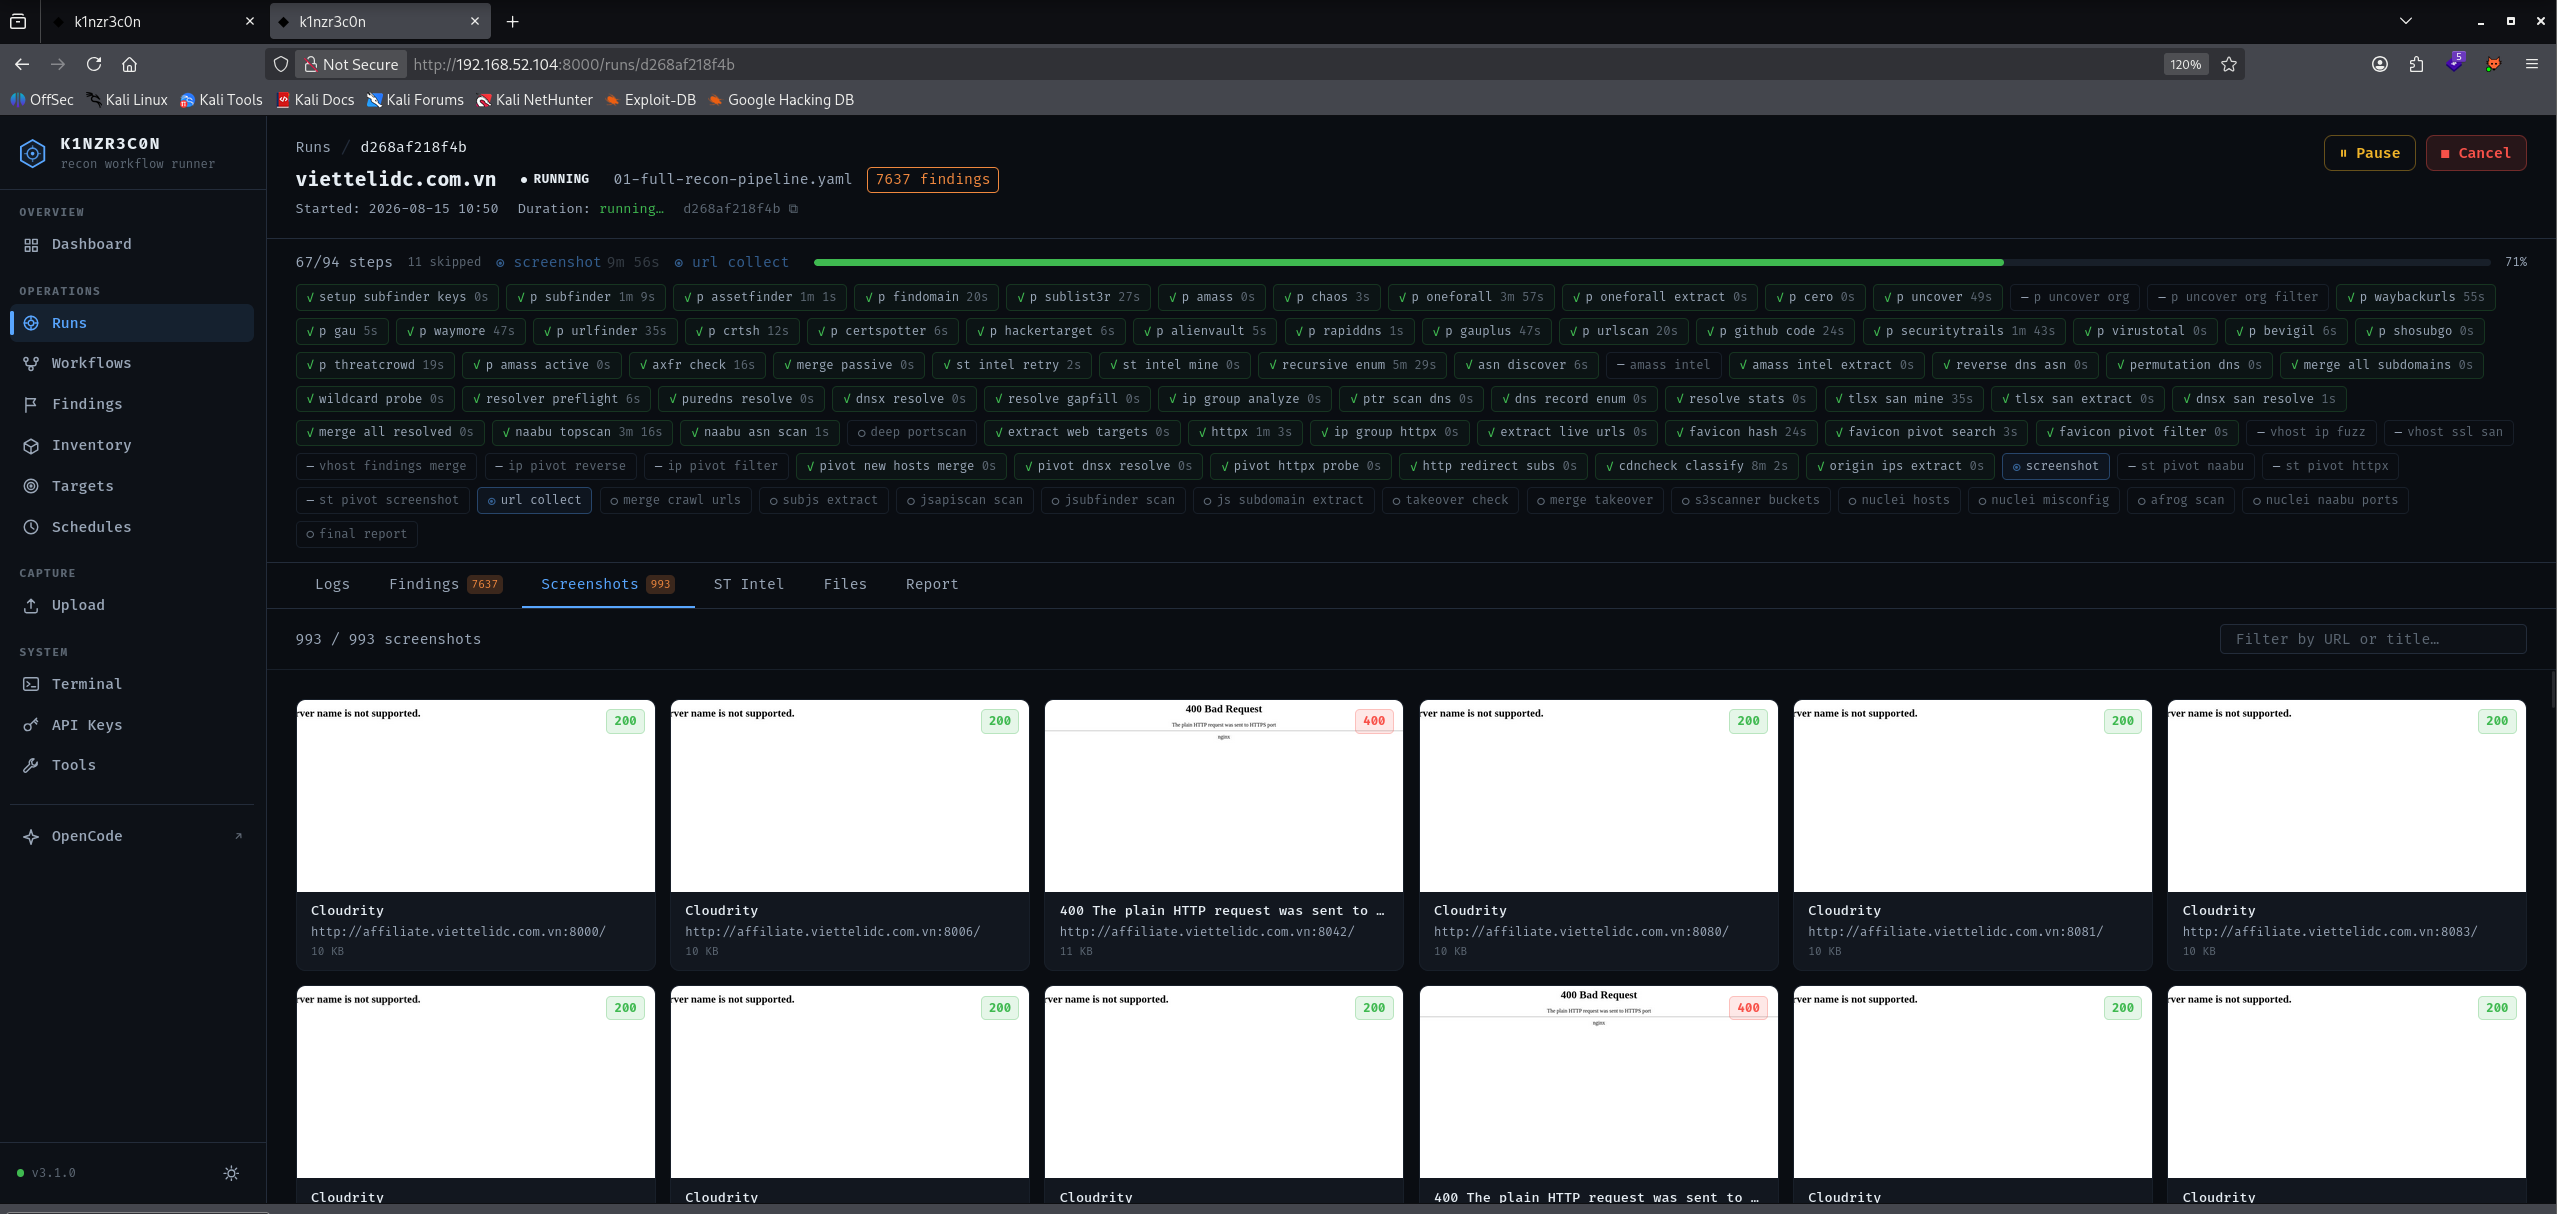
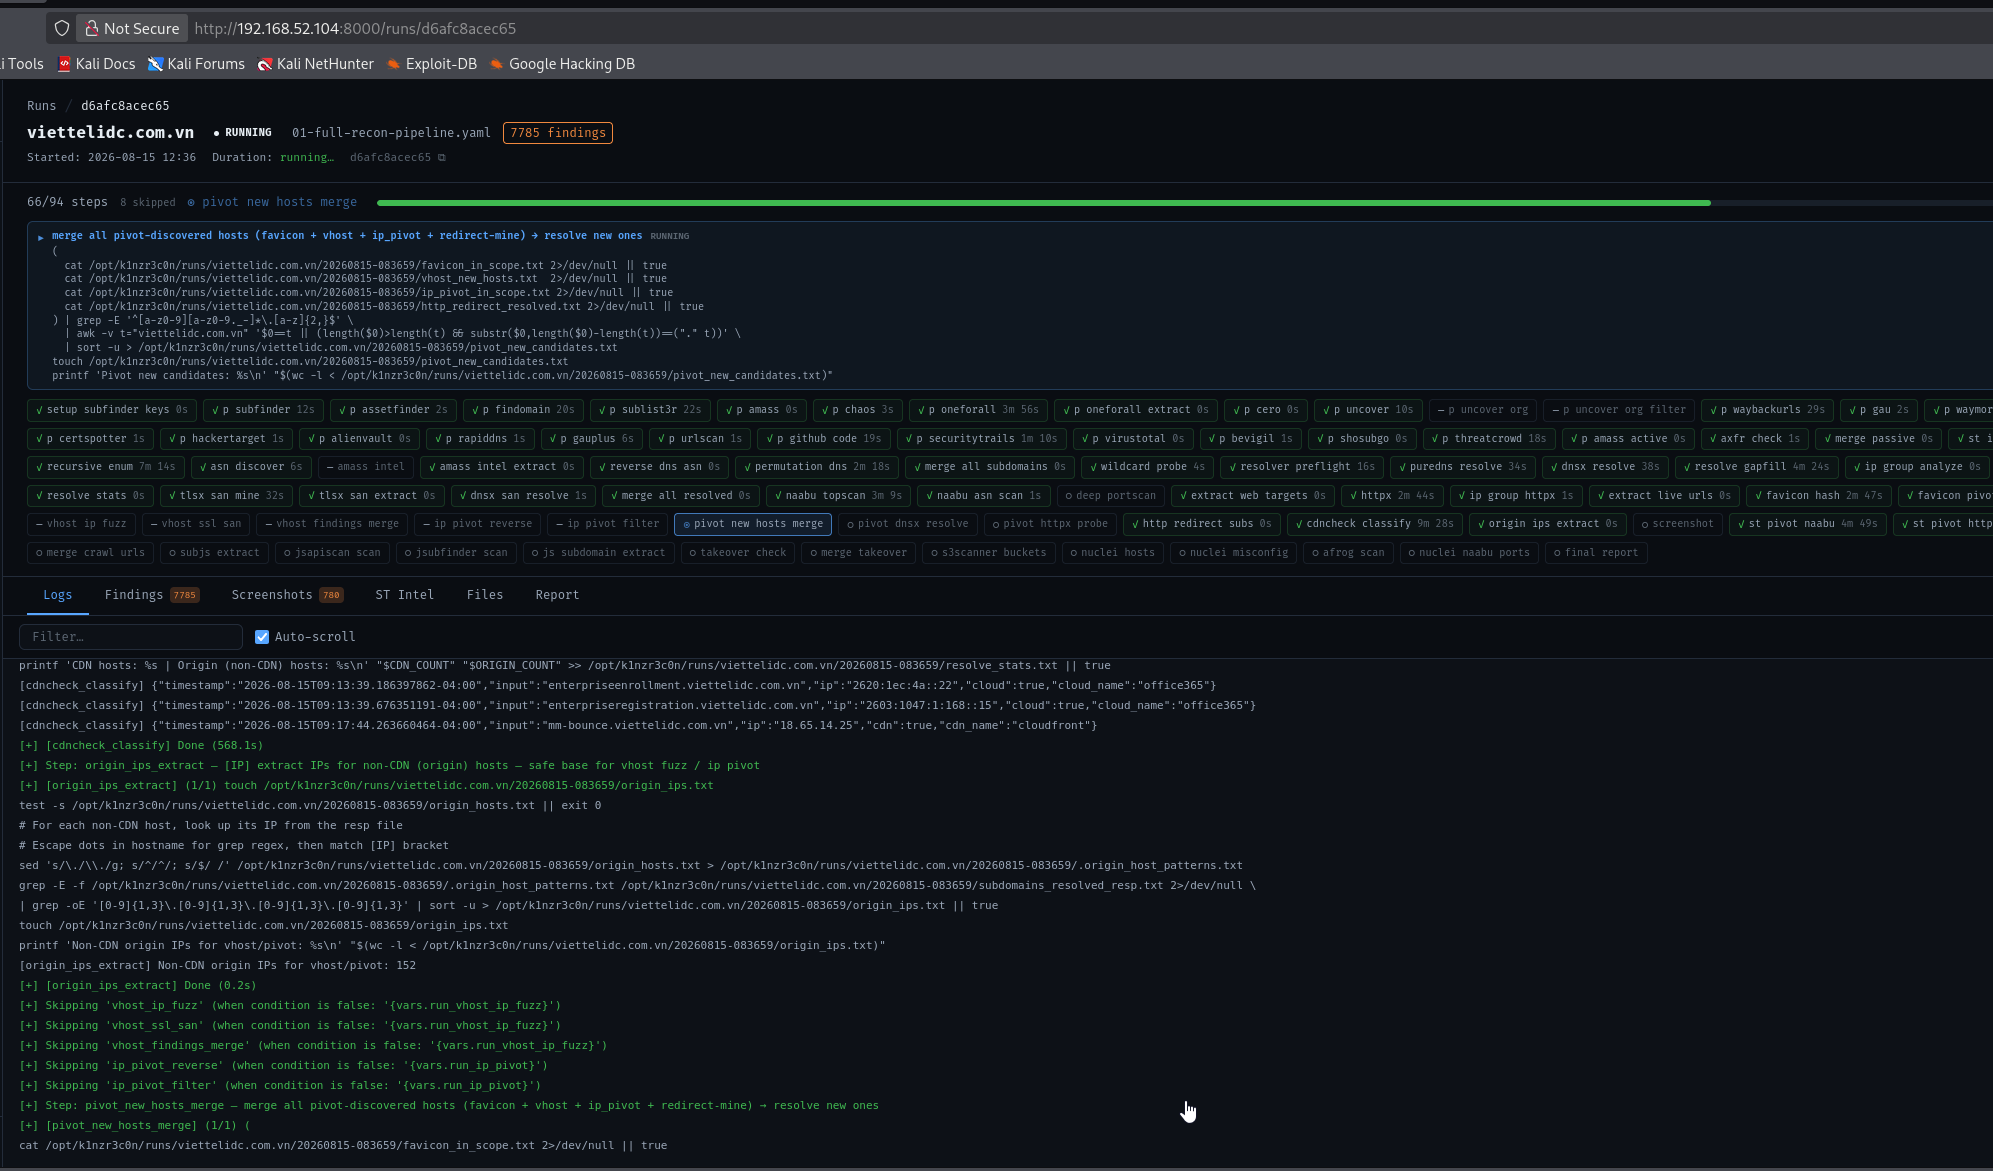
v1.4

diff --git a/scripts/securitytrails_fetch.py b/scripts/securitytrails_fetch.py
@@ -373,15 +373,27 @@ def _pivot_api_search(api_key: str, filters: dict) -> tuple[list[str] | None, bo
     Body is a FILTER OBJECT: {"filter": {"ns": "ns2.example.com"}} — not the
     DSL query string. Pagination via ?page=N; every page is fetched so deep
     results (e.g. scec.vn on page 30 of 53 for ns2) are never truncated.
+
+    BUGFIX 2026-08-15: the API returns records[].hostname (not "domain"/
+    "apex_domain") and meta.total_pages (not "pages") — the old field names
+    parsed 0 records per page, so every pivot silently fell back to the
+    ~500-row-capped viewdns source and deep domains were lost.
     Returns (domains_or_None_if_plan_lacks_it, got_200).
     """
     domains: list[str] = []
     page = 1
     got_200 = False
     while page <= 1000:   # guard only — loop ends on API's own end-of-data
-        status, data = _http_json(
-            "POST", f"/v1/domains/list?apikey={api_key}&page={page}", api_key,
-            payload={"filter": filters})
+        status, data = None, None
+        for attempt in range(3):   # per-page retry: NAT flaps mid-pagination
+            status, data = _http_json(
+                "POST", f"/v1/domains/list?apikey={api_key}&page={page}", api_key,
+                payload={"filter": filters})
+            if status == 200 and data is not None:
+                break
+            if status in (400, 401, 402, 403, 404):
+                break
+            time.sleep(5)
         if status in (402, 403):
             return (domains if domains else None), True   # plan limit
         if status != 200 or data is None:
@@ -389,12 +401,14 @@ def _pivot_api_search(api_key: str, filters: dict) -> tuple[list[str] | None, bo
         got_200 = True
         recs = []
         for r in data.get("records", []):
-            d = (r.get("domain") or r.get("apex_domain") or "").lower()
+            d = (r.get("hostname") or r.get("domain")
+                 or r.get("apex_domain") or "").lower()
             if _HOST_RE.match(d):
                 recs.append(d)
         domains.extend(recs)
-        pages = data.get("pages")
-        total = data.get("total") or data.get("record_count")
+        meta = data.get("meta") or {}
+        pages = meta.get("total_pages") or meta.get("max_page") or data.get("pages")
+        total = data.get("total") or meta.get("total")
         if not recs:
             break
         if pages is not None and page >= int(pages):
